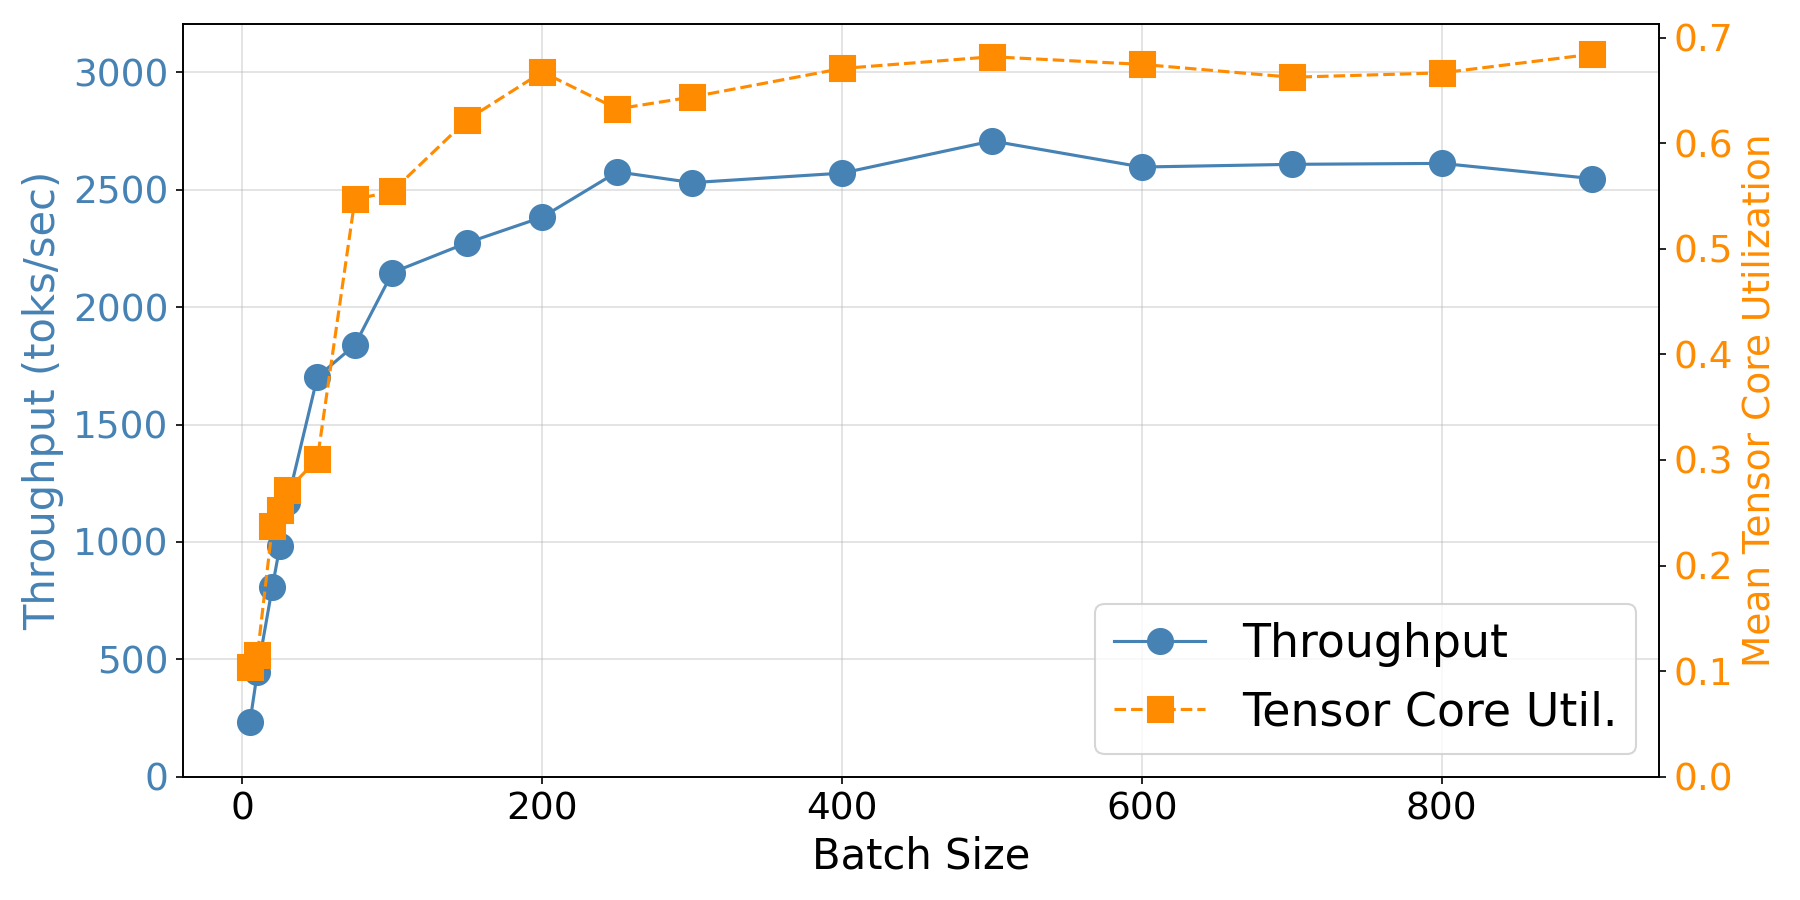
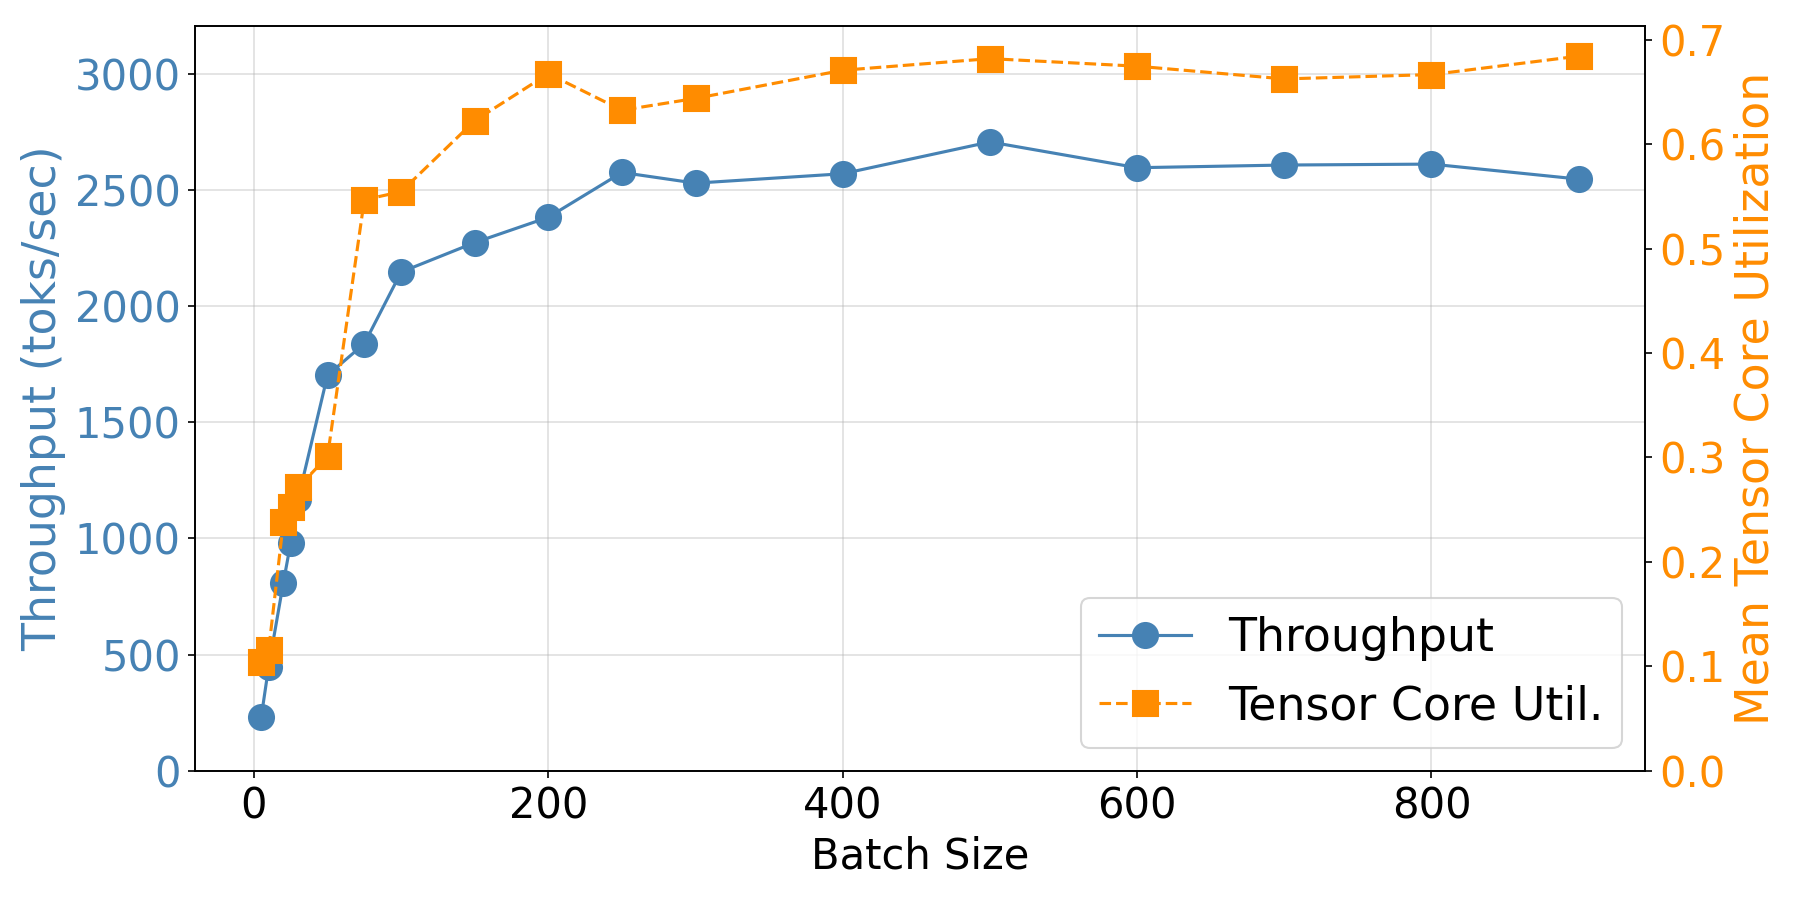
homo hetero plot intro changed

diff --git a/code/vllm/batch_size_dcgmi_logs/plot.py b/code/vllm/batch_size_dcgmi_logs/plot.py
@@ -48,17 +48,17 @@ color_tensor = "darkorange"
 
 # Left axis: Throughput
 ax1.set_xlabel("Batch Size", fontsize=20)
-ax1.set_ylabel("Throughput (toks/sec)", fontsize=20, color=color_throughput)
+ax1.set_ylabel("Throughput (toks/sec)", fontsize=22, color=color_throughput)
 line1, = ax1.plot(fractions, throughput_values, marker='o', color=color_throughput, label="Throughput", markersize=12)
-ax1.tick_params(axis='y', labelcolor=color_throughput, labelsize=18)
-ax1.tick_params(axis='x', labelsize=18)
+ax1.tick_params(axis='y', labelcolor=color_throughput, labelsize=20)
+ax1.tick_params(axis='x', labelsize=20)
 ax1.set_ylim(0, max(throughput_values) + 500)
 
 # Right axis: Tensor Core Utilization
 ax2 = ax1.twinx()
-ax2.set_ylabel("Mean Tensor Core Utilization", fontsize=18, color=color_tensor)
+ax2.set_ylabel("Mean Tensor Core Utilization", fontsize=22, color=color_tensor)
 line2, = ax2.plot(tenso_fractions, means, marker='s', color=color_tensor, linestyle='--', label="Tensor Core Util.", markersize=12)
-ax2.tick_params(axis='y', labelcolor=color_tensor, labelsize=18)
+ax2.tick_params(axis='y', labelcolor=color_tensor, labelsize=20)
 ax2.set_ylim(0, None)
 
 # Combined legend
